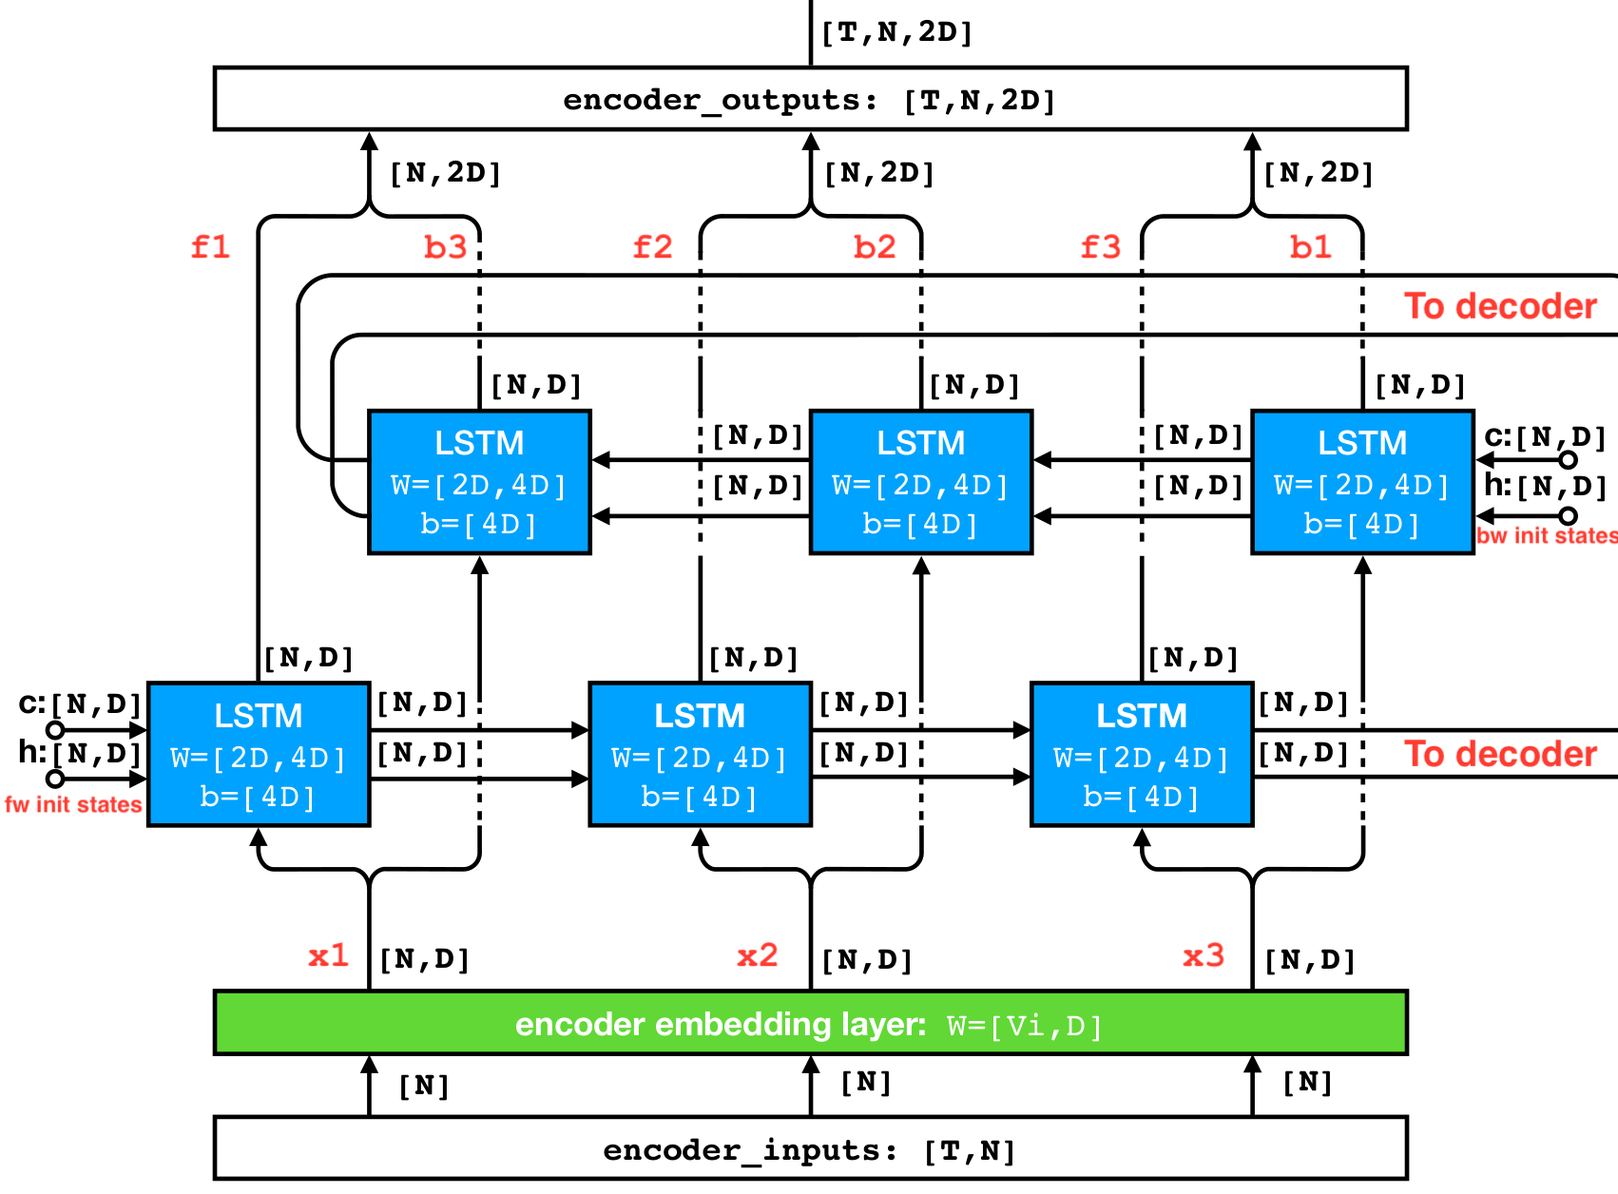
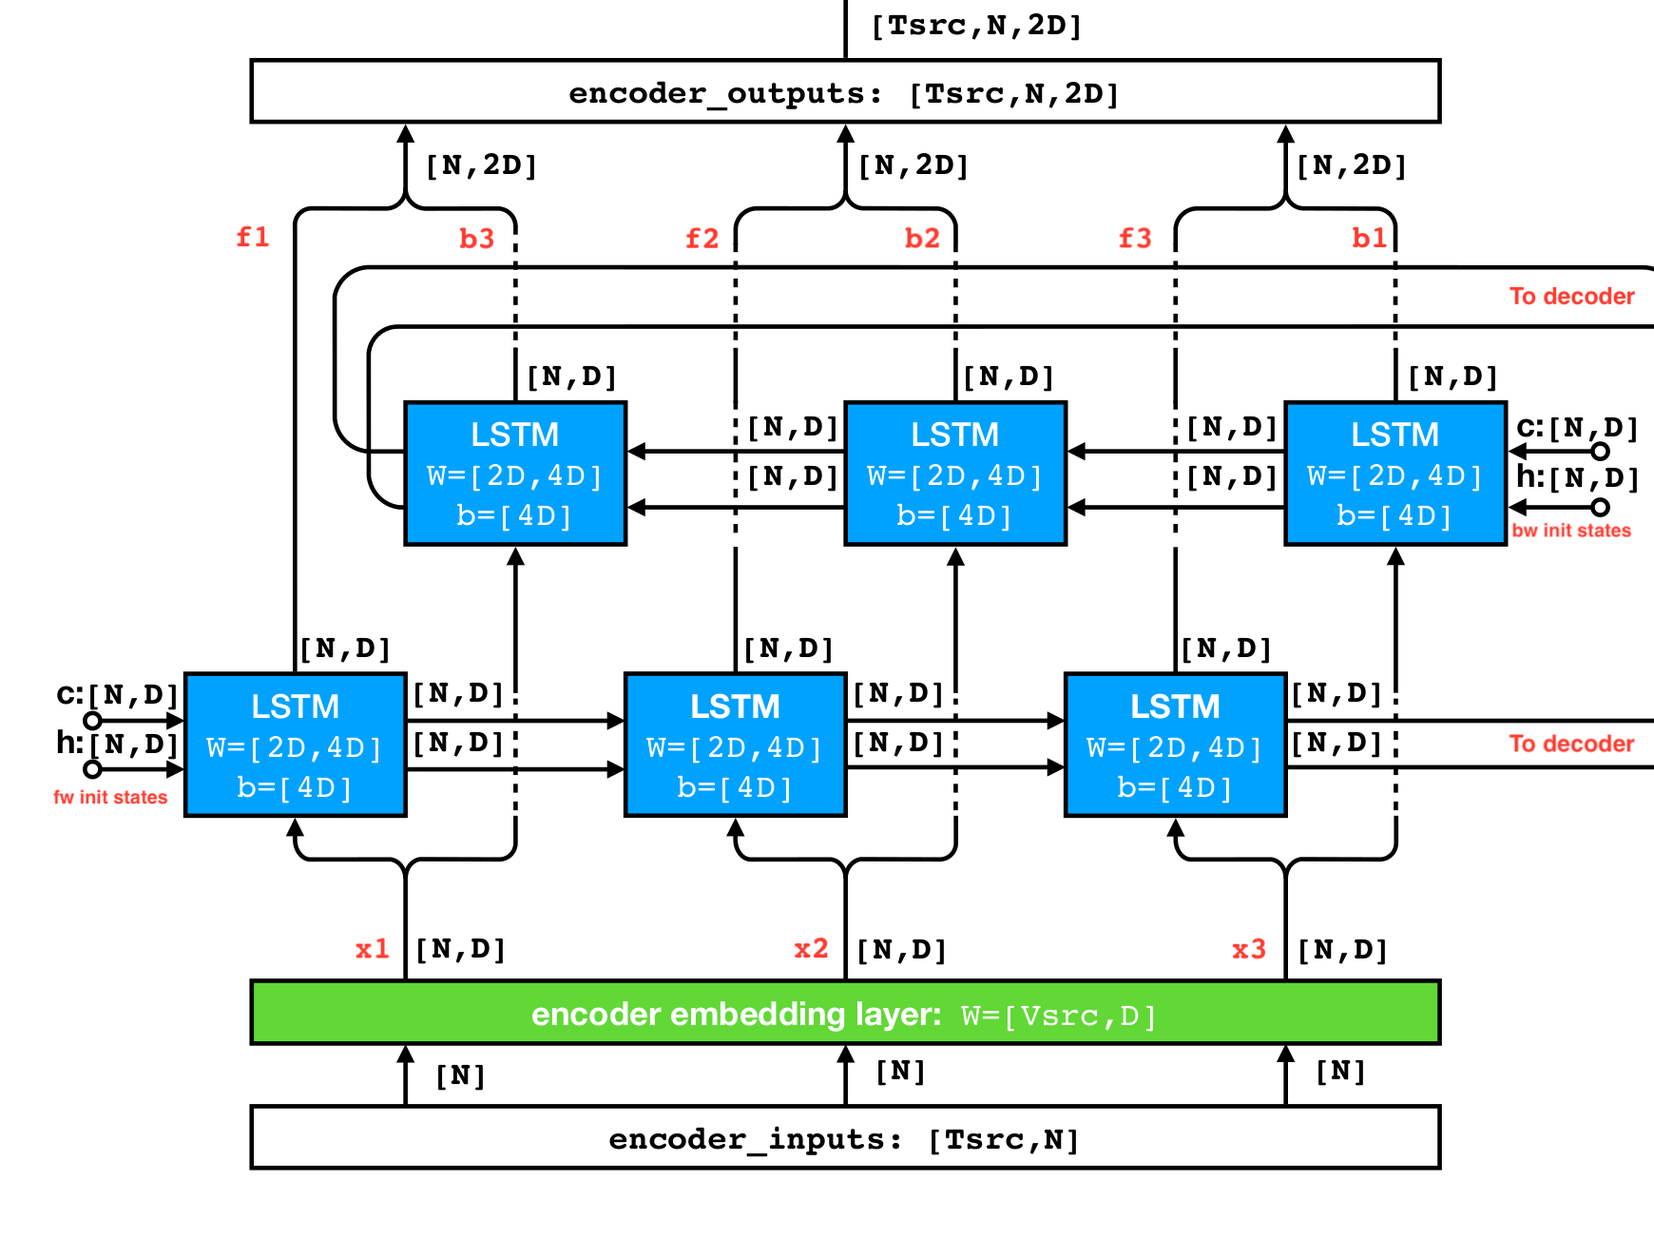
Updated README.md and run_inference.py

Changed region(s): [[0.0, 0.0, 1.0, 0.9936]]

diff --git a/run_inference.py b/run_inference.py
@@ -105,6 +105,7 @@ def main(_):
     bleu_score = eval_utils.compute_bleu(FLAGS.tgt_file, 
         os.path.join(FLAGS.out_dir, OUTPUT_FILE))    
     print('BLEU score:', bleu_score)
+  print('Output file:', os.path.join(FLAGS.out_dir, OUTPUT_FILE))
 
 if __name__ == '__main__':
   tf.flags.mark_flag_as_required('src_file')

diff --git a/g3doc/Build_seq2seq_model.md b/g3doc/Build_seq2seq_model.md
@@ -1,5 +1,5 @@
 # Build a seq2seq Model
-This guide overviews the key steps and concepts to build a seq2seq model implemented as an encoder-decoder architecture with attention mechanism. It does not intend to go into too much details, while still being informative enough to give you a clear picture of how the seq2seq model works under the hood. It is recommended that you have basic knowledge about how recurrent neural networks work (you can check this [post](https://karpathy.github.io/2015/05/21/rnn-effectiveness/) if you don't).
+This guide overviews the key steps and concepts to build a seq2seq model implemented as an encoder-decoder architecture with attention mechanism. While I did not intend to cover all details, I tried to make it easy-to-follow to give you a clear picture of how the seq2seq model works under the hood. It is recommended that you are familiar with how recurrent neural network works (you can check this [post](https://karpathy.github.io/2015/05/21/rnn-effectiveness/) if you don't).
 
 ### Encoder-Decoder Architecture
 
@@ -7,7 +7,7 @@ At a high level, the seq2seq model is composed of an encoder RNN and a decoder R
 
 For example, in the case of NMT the source sequence is a list of four tokens in Japenese "広", "い", "部", "屋", and the target sequence is a list of two tokens in English "large", "room". The end goal is to output the phrase "large room" given the input "広い部屋". To achieve this, the encoder RNN reads the source sequence tokens one at a time, and meanwhile updates its hidden layer (i.e. real-valued multi-dimensional vector) accordingly, before handing over to the decoder.
 
-Like the encoder, the decoder updates its hidden layer upon reading each target sequence token. But unlike the encoder that just reads in the source sequence without generating any output, the decoder is supposed to generate a prediction sequence. Note that the final state of encoder's hidden layer has captured all the information the decoder needs about the source sequence, so it can be used to initialize the decoder's hidden layer. 
+Like the encoder, the decoder updates its hidden layer upon reading each target sequence token. But unlike the encoder that just reads in the source sequence without generating any output, the decoder is supposed to generate a prediction sequence. Note that the final state of encoder's hidden layer contains all the knowledge the encoder has about the source sequence, so it can be passed to the decoder to initialize its hidden layer. 
 
 
 <p align="center">
@@ -16,11 +16,15 @@ Like the encoder, the decoder updates its hidden layer upon reading each target 
   Encoder-decoder architecture is trained on source input sequence, target input and target output Sequence.
 </p>
 
-The decoder is designed to generate prediction in two modes. At the time of training, a **target input** sequence is used to *cue* the decoder to emit predicted tokens one at a time, and a **target output** sequence as groundtruth. Specifically, we respectively prepend and append the target sequence "large room" with special marker `sos` (start of sequence) and `eos` (end of sequence) to obtain the target input and target output sequence. Upon reading `sos`, the decoder is given the signal that prediction has started, and is expected to emit the first token "large" in the target sequence, and on "large" emit the second token "room". When reading the last token "room", the decoder's hidden layer should be in a state that signals it has come to the end of the prediction, and is expected to emit `eos`. 
+The decoder is designed to generate prediction in two modes. 
+
+At the time of *training*, a **target input** sequence is used to send signals to the decoder to emit predicted tokens one at a time, and a **target output** sequence serves as groundtruth. Specifically, we respectively prepend and append the target sequence "large room" with special marker `sos` (start of sequence) and `eos` (end of sequence) to obtain the target input and target output sequence. Upon reading `sos`, the decoder is given the signal that prediction has started, and is expected to emit the first token "large" in the target sequence, and on "large" emit the second token "room". When reading the last token "room", the decoder's hidden layer should be in a state that signifies it has come to the end of the prediction, and is expected to emit `eos`. 
+
+At the time of *inference*, however, the decoder is on its own to generate the target sequence. It works by feeding the token generated at last time step to the decoder to generate the token at the current step. The detail of the inference mode is beyond the scope of this guide.
 
 ### Prepare the Data
 <p align="center">
-  <img src="files/data.png" width="350">
+  <img src="files/lookup.png" width="450">
   <br>
   Convert raw tokens to real-valued embedding vectors.
 </p>
@@ -30,16 +34,13 @@ As noted above, we need to prepare a target input and a target output sequence, 
 The idea is to convert the raw tokens into IDs, which are just the token indices into the source or target vocabulary. For example, "広" has index 0 in Japanese vocabulary, and "room" has index 3 in English vocabulary. Note that the target vocabulary has been augmented with `sos` and `eos`. 
 
 These integer IDs need to be further mapped to real-valued vectors. For a source vocabulary of size `Vs` and a target vocabulary of size `Vt`, we initialize a real-valued matrix of shape `[Vs, D]` and another of shape `[Vt, D]` where `D` is the desired size of embedding. The matrices can be used as lookup tables to retrieve the embedding vectors for each ID. For example, "広" is represented as the 0th row of the source matrix and "room" is represented as the 3rd row of the target matrix.   
+
 In this way the source sequence ends up being represented as a list of 4 D-dimentional vectors and target input and output sequences as two lists of 3 D-dimensional vectors.
-
-
-##### LSTM RNN Cell
-
 
 ### Build the Encoder
 Here the encoder is implemented as a two-layer bi-directional RNN. It operates like a regular RNN except that it reads the source sequence in two directions. The forward RNN (bottom) reads input sequence from left to right, while the backward RNN (top) reads the same sequence in reverse direction.
 
-Suppose we have a source sequence of length three, represented as three matrices `x1`, `x2`, `x3` of shape `[N, D]` (`N` is just the batch size). The sequence is presented to the forward RNN in the order of `x1`, `x2`, `x3`, and to the backward RNN in the order of `x3`, `x2`, `x1`. The forward RNN will generate a sequence of hidden states `f1`, `f2`, `f3` over time, and likewise `b3`, `b2`, `b1` for backward RNN. These hidden states are paired if they are resulted from the same input token: `[f1, b3]`,  `[f2, b2]`, `[f3, b1]`. The two hidden states are concatenated along the depth dimension, so finally we are left with 3 hidden state matrices of shape `[N, 2D]`. These matrices (`encoder_outputs`) form a *memory lookup table* to be utilized by the attention mechanism which will be covered later.
+Suppose we have a source sequence of length three, represented as three matrices `x1`, `x2`, `x3` of shape `[N, D]` (`N` is the batch size, `D` is embedding size). The sequence is presented to the forward RNN in the order of `x1`, `x2`, `x3`, and to the backward RNN in the order of `x3`, `x2`, `x1`. The forward RNN will generate a sequence of hidden states `f1`, `f2`, `f3` in the order of the presented matrices, and likewise `b1`, `b2`, `b3` for backward RNN. These hidden states are paired if they are resulted from the same input token: `[f1, b3]`,  `[f2, b2]`, `[f3, b1]`. The two hidden states are concatenated along the depth dimension, so finally we are left with 3 hidden state matrices of shape `[N, 2D]`. These matrices (`encoder_outputs`) form a *memory lookup table* to be utilized by the attention mechanism which will be covered later.
 
 <p align="center">
   <img src="files/encoder.png" width="500">
@@ -55,23 +56,23 @@ Suppose we have a source sequence of length three, represented as three matrices
   Decoder with Attention Mechanism Unfolded for a Sequence of Length Three.
 </p>
 
-The decoder RNN is a two-layer RNN with LSTM cells. The first layer (bottom) takes as input an *augmented* version of the embedding vectors of target tokens: they are concatenated with **attention vectors** from the previous time step. The attention vectors are used to inform the decoder about the attention decisions made in previous step.
+The decoder RNN is a two-layer RNN with LSTM cells. The first layer (bottom) takes as input an *augmented* version of the embedding vectors of target tokens: they are concatenated with **attention vectors** from the previous time step. The attention vectors are used to inform the decoder about the attention decisions (i.e. which source tokens to pay attention to) made in previous step.
 
-The second layer RNN (top) takes as input the hidden state from the first layer, and its own hidden state is fed to the **memory layer** and the **attention layer** to generate the **attention vector** for the next time step (how attention vectors are generated is covered in the next part).
+The second layer RNN (top) takes as input the hidden state from the first layer, and its own hidden state is fed to the **memory layer** above and the **attention layer** to generate the **attention vector** for the next time step (how attention vectors are generated is covered in the following part).
 
 ### Attention Mechanism
 Unlike the vanilla seq2seq model where the information about the entire source sequence (can be *arbitrarily long*) is squashed into a *fixed length* vector (i.e. encoder's final hidden state), the attention mechanism allows the decoder to access the encoder hidden states at each time step, so that the decoder can adaptively learn which source sequence token to pay attention to when generating the next target token.
 
 ##### Memory Layer
 <p align="center">
-  <img src="files/memory.png" width="300">
+  <img src="files/memory.png" width="400">
   <br>
   Memory layer using Luong's multiplicative scoring function.
 </p>
 
-The attention mechanism is implemented by adding a **memory layer** and an **attention layer**. Generally, the memory layer compares a `query` vector (i.e. hidden state of the topmost decoder RNN) with the raw memory `encoder_outputs` to produce a `context` vector. 
+The attention mechanism is implemented by adding a **memory layer** and an **attention layer** on top of the decoder RNN. Generally, the memory layer compares a `query` vector (i.e. hidden state of the topmost decoder RNN) with the raw memory `encoder_outputs` holding the encoder's hidden states at every time step to see which step has the best match with `query`.
 
-The comparison relies on a scoring function to quantitatively measure the matching quality. Shown in the above figure is the *Luong*'s multiplicative scoring function (another being *Bahdanau*'s additive scoring function), where a transformed memory `keys` is computed by applying a projection to `encoding_outputs` and then a dot-product is computed between `query` and each time slice of `keys` (i.e. `keys[i, :]`). The outcome of dot-product then goes through a softmax function so we are left with `scores` -- the output of scoring function. The `scores` is used to compute `context` -- the weighted average of the raw memory `encoder_outputs` (over the time dimension).
+The comparison relies on a scoring function to quantitatively measure the matching quality. Shown in the above figure is the *Luong*'s multiplicative scoring function (another being *Bahdanau*'s additive scoring function), where a transformed memory `keys` is computed by performing projection on `encoding_outputs` and then a dot-product is computed between `query` and each time slice of `keys` (i.e. `keys[i, :]`). The outcome of dot-product then goes through a softmax function so we are left with `scores` -- the output of scoring function. Its time dimension has a size of `Tsrc` (length of source sequence), so the larger the value, the better `query` fits with that source token. Finally the `scores` is used to compute `context` -- the weighted average (over the time dimension) of the raw memory `encoder_outputs`.
 
 
 ##### Attention Layer
@@ -81,12 +82,41 @@ The comparison relies on a scoring function to quantitatively measure the matchi
   Attention layer generates attention vector.
 </p>
 
-The attention layer generates an **attention vector** given the `context` from memory layer and the `query` from the hidden state of decoder RNN. It simply concatenates `context` and `query` along the depth dimension and projects it into `D`-dimensional space
+The attention layer generates an **attention vector** given the `context` from memory layer and the `query` from the hidden state of decoder RNN. It simply concatenates `context` and `query` along the depth dimension and projects it into `D`-dimensional space.
 
+The attention vector goes out in two branches: 
+* As noted earlier it is combined with the embedding vector of target token from the following time step, and is fed to the decoder RNN in the first layer.
+* It goes through an output projection layer to produce the final prediction logits.
 
-### Project Layer
+<p align="center">
+  <img src="files/projection.png" width="400">
+  <br>
+  Projection Layer. 
+</p>
 
-### Acknowledgement
+A softmax loss is computed between the logits (`[Ttgt, N, Vtgt]`) and target output sequence (`[Ttgt, N]`), and gradients are backpropagated to all weighted layers.
 
+### Trainable Variables
+Below is a list of all trainable variables of the seq2seq model described above.
 
+* Encoder embedding matrix `[Vsrc, D]`
+* Encoder forward RNN kernel `W: [2D, 4D]`
+* Encoder forward RNN bias `b: [4D]`
+* Encoder backward RNN kernel `W: [2D, 4D]`
+* Encoder backward RNN bias `b: [4D]`
+* Decoder embedding matrix `[Vtgt, D]`
+* Decoder RNN kernel at layer 1 `W: [3D, 4D]`
+* Decoder RNN bias at layer 1 `b: [4D]`
+* Decoder RNN kernel at layer 2 `W: [2D, 4D]`
+* Decoder RNN bias at layer 2 `b: [4D]`
+* Memory layer kernel `W: [2D, D]`
+* Attention layer kernel `W: [3D, D]`
+* Attention layer multiplier (a scalar value)
+* Project layer kernel `W: [D, Vtgt]`
+
+### References
+  1. Official TensorFlow seq2seq model tutorial, https://github.com/tensorflow/nmt 
+  2. Effective Approaches to Attention-based Neural Machine Translation, Luong et al. 2015
+  3. Neural Machine Translation by Jointly Learning to Align and Translate, Bahdanau et al. 2015
+  4. Sequence to Sequence Learning with Neural Networks, Sutskever et al. 2014
 

diff --git a/README.md b/README.md
@@ -5,11 +5,21 @@
 </p>
 
 
-A TensorFlow implementation of a seq2seq model using encoder-decoder architecture with attention mechanism.
+This is a TensorFlow re-implementation of the seq2seq model using encoder-decoder architecture with attention mechanism. If you are also interested in how to build a seq2seq model on a high level, you can follow this [guide](https://github.com/chao-ji/tf-seq2seq/blob/master/g3doc/Build_seq2seq_model.md).
+
 
 ### Usage
 
+This implementation relies on a [proto buffer](https://developers.google.com/protocol-buffers/) configuration file to manage all parameter settings. 
 
+First you need to download & install [proto buffer compiler](https://developers.google.com/protocol-buffers/docs/downloads), and compile the `seq2seq.proto` file by running
+```
+  protoc --python_out=. protos/seq2seq.proto
+``` 
+which generates `seq2seq_pb2.py` in the `protos` directory.
+
+##### Training
+To perform training, run
 ```
 python run_training.py \
     --src_file_list=/PATH/TO/SRC_FILE_LIST \
@@ -18,4 +28,98 @@ python run_training.py \
     --tgt_vocab_file=/PATH/TO/TGT_VOCAB_FILE \
     --config_file=/PATH/TO/CONFIG_FILE
 ```
+
+`src_file_list` (or `tgt_file_list`) can be a single file name or a list of comma-separated file names, where each line of the file holds a single sequence (tokens separated by a space) of the source or target. `src_vocab_file` (or `tgt_vocab_file`) is a text file where each line holds a single vocabulary item. `config_file` is a configuration file with all parameter settings. A default one (`seq2seq.config`) is provided in `protos` directory, which can be modified as needed.
+
+##### Evaluation and Inference
+
+A seq2seq model can be evaluated both internally and externally. 
+
+The internal evaluation runs the source input sequence and target input sequence through the forward pass, and computes a loss by comparing the prediction logits and groundtruth target output sequence. It reports *Perplexity*, which is a function of the cross entroy loss. 
+
+To perform *internal evaluation*, run
+```
+  python run_internal_evaluation.py 
+    --ckpt_path=/PATH/TO/CKPT
+    --config_file=/PATH/TO/CONFIG_FILE
+    --src_file=/PATH/TO/SRC_FILE
+    --tgt_file=/PATH/TO/TGT_FILE
+    --src_vocab_file=/PATH/TO/SRC_VOCAB_FILE
+    --tgt_vocab_file=/PATH/TO/TGT_VOCAB_FILE
+```
+where `ckpt_path` points to a checkpoint file holding a trained model, and `src_file` (or `tgt_file`) is a single text file holding a source (or target) sequence on each line. 
+
+For the *external evaluation*, a translated sequence is generated off an input sequence (`--src_file`) and compared against a groundtruth sequence (`--tgt_file`). It reports *BLEU* score, which is directly related to translation quality (e.g. in Neural Machine Translation). 
+
+To perform external evaluation, run
+```
+  python run_inference.py 
+    --ckpt_path=/PATH/TO/CKPT
+    --config_file=/PATH/TO/CONFIG_FILE
+    --src_file=/PATH/TO/SRC_FILE
+    --tgt_file=/PATH/TO/TGT_FILE
+    --src_vocab_file=/PATH/TO/SRC_VOCAB_FILE
+    --tgt_vocab_file=/PATH/TO/TGT_VOCAB_FILE
+```
+To make inference without comparing against the groundtruth, simply leave out the `tgt_file` flag. The output file `output.txt` is located in the directory specified by the `--out_dir` flag. 
+
+### Neural Machine Translation between English and Vietnamese
+This is the example used in the [NMT tensorflow tutorial](https://github.com/tensorflow/nmt). To download the data, simple run the [sciprt](https://github.com/tensorflow/nmt/blob/master/nmt/scripts/download_iwslt15.sh).
+
+The parameter settings are the same in the [tutorial](https://github.com/tensorflow/nmt#iwslt-english-vietnamese): 
+* 2-layer LSTMs of 512 units with bidirectional encoder 
+* Embedding size: 512
+* Scaled Luong Attention
+* Dropout: 0.2 (keep prob is 0.8)
+* SGD optimizer with 1.0 initial learning rate. Train for 12K steps; after 8K steps, half the learning rate every 1K step.
+* Beam width (beam width 10) is used for decoding.
+
+Here are the metrics in terms of BLEU scores. You may get slightly different results due to weight initialization and other random factors. 
+
+|Dataset|English to Vietnamese|Vietnamese to English|
+|-|-|-|
+|tst2012|24.0|22.3|
+|tst2013|25.9|25.0|
+
+
+The attention mechanism allows you to record the alignment scores between a translated sequence and its input sequence. For example, in the following aligment between the output and input, we can see that the pairs of words `I` and `Tôi`, `when` and `khi`, `after` and `sau` are highly related as they turns out to have the same meaning.
+
+To visualize the alignment, you can run the `run_inference.py` executable as above, and `cd` to the output directory (`--out_dir`), and start tensorboard by running `tensorboard --logdir=.`.
+
+
+<p align="center">
+  <img src="g3doc/files/alignment.png" width="900">
+  Alignment between an input Vietnamese sentence and an output English translation. 
+</p>
+
+
+### Generic Sequence Transducer
+It turns out that seq2seq is likely to be able to perform a general class of prediction tasks where the input and output are sequences of arbitrary length, not just translation.
+
+Here is a fun exeriment: you generate input sequences of different lengths (say 5 to 50) containing random integers from a range (say 0 to 128) and their sorted counterpart as the output sequences. You train your seq2seq model on that data, and you test the trained model on some new input sequences. 
+
+Here is a sample of the new sequences and their outputs.
+
+``` 
+88 57 105 41 99 115 76 3 92 21 77 63 33 91 67 25 20 57 51 60 104 117 108 39 84
+3 20 21 25 33 39 41 51 57 57 60 63 67 76 77 84 88 91 92 99 104 105 108 115 117
+
+6 72 60 61 51 59 81 42
+6 42 51 59 60 61 72 81
+
+18 121 14 101 17 12 20 84 119 46 75 109 74 125 45 112 127 41 86 39 76 48 97 120 33 0
+0 12 14 17 18 20 33 39 41 45 46 48 74 75 76 84 86 97 101 109 112 119 120 121 125 127
+
+57 35 83 69 87 2 39 24 41 87 39 57 126 104 61 112 3 94 110 33 111 46 7 26 95 103 65 20 67 127 104 28 56 29 23 20 23 39 126 46 25 100
+2 3 7 20 20 23 23 24 25 26 28 29 33 35 39 39 39 41 46 46 56 57 57 61 65 67 69 83 87 87 94 95 100 103 104 104 110 111 112 126 126 127
+
+24 127 61 50 32 37 20 64 19 103 106 43 34 97 101 106 85 111 112 43 80 58 25 64 18 97 89 75 118 36 117 117 12 92 41 41 50 115 95
+12 18 19 20 24 25 32 34 36 37 41 41 43 43 50 50 58 61 64 64 75 80 85 89 92 95 97 97 101 103 106 106 111 112 115 117 117 118 127
+```
+
+You just "invented" a sorting algorithm using a seq2seq model. 
+
+The integers, just like the words in sentences, are represented internally as multidimensional vectors (distributed representation), so the seq2seq is must be able to figure out that there is an inherent relationship among these symbols (integers in this case): some symbols are "greater" or "less" than others, and the task you intend to perform is sorting.
+
+This may be a trivial example, but at least it shows the seq2seq model's potential to be a generic sequence transducer. It learns the task from the data.
 
